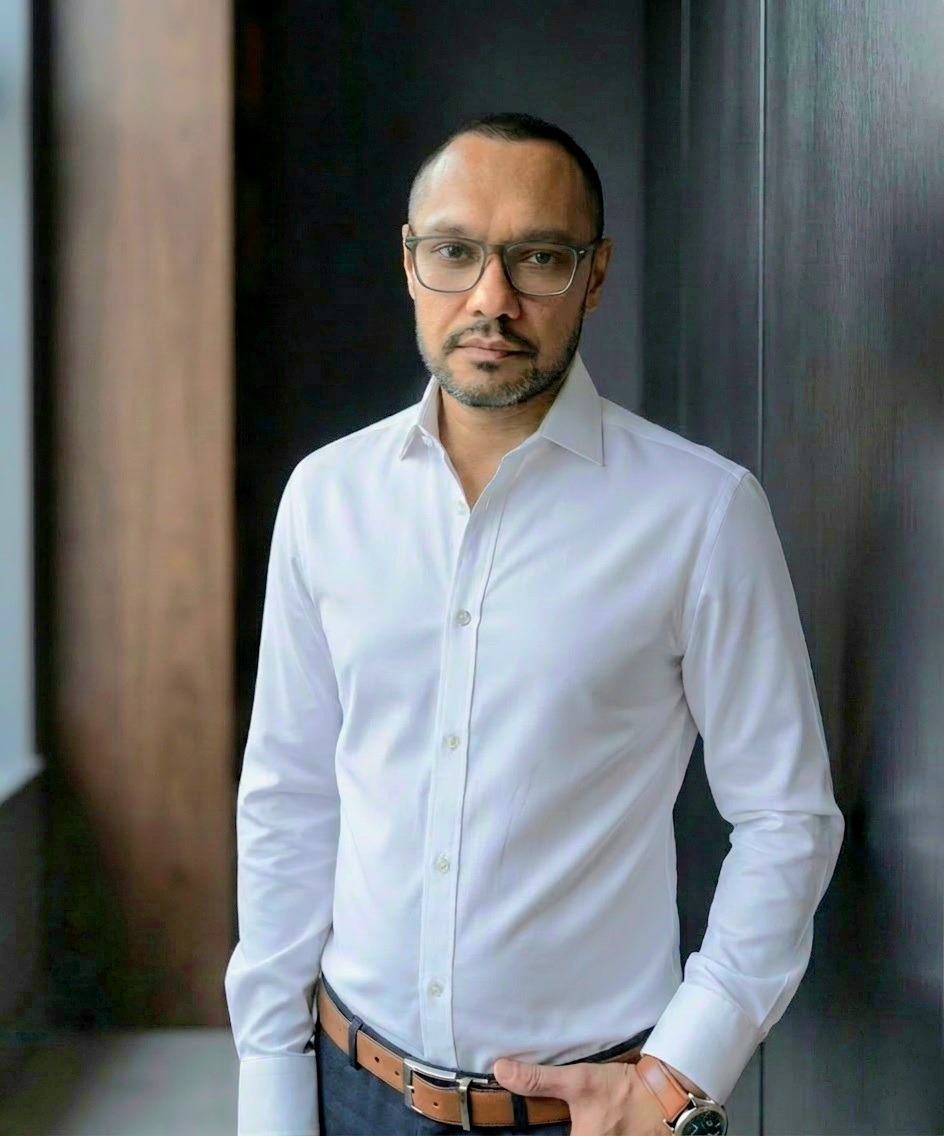
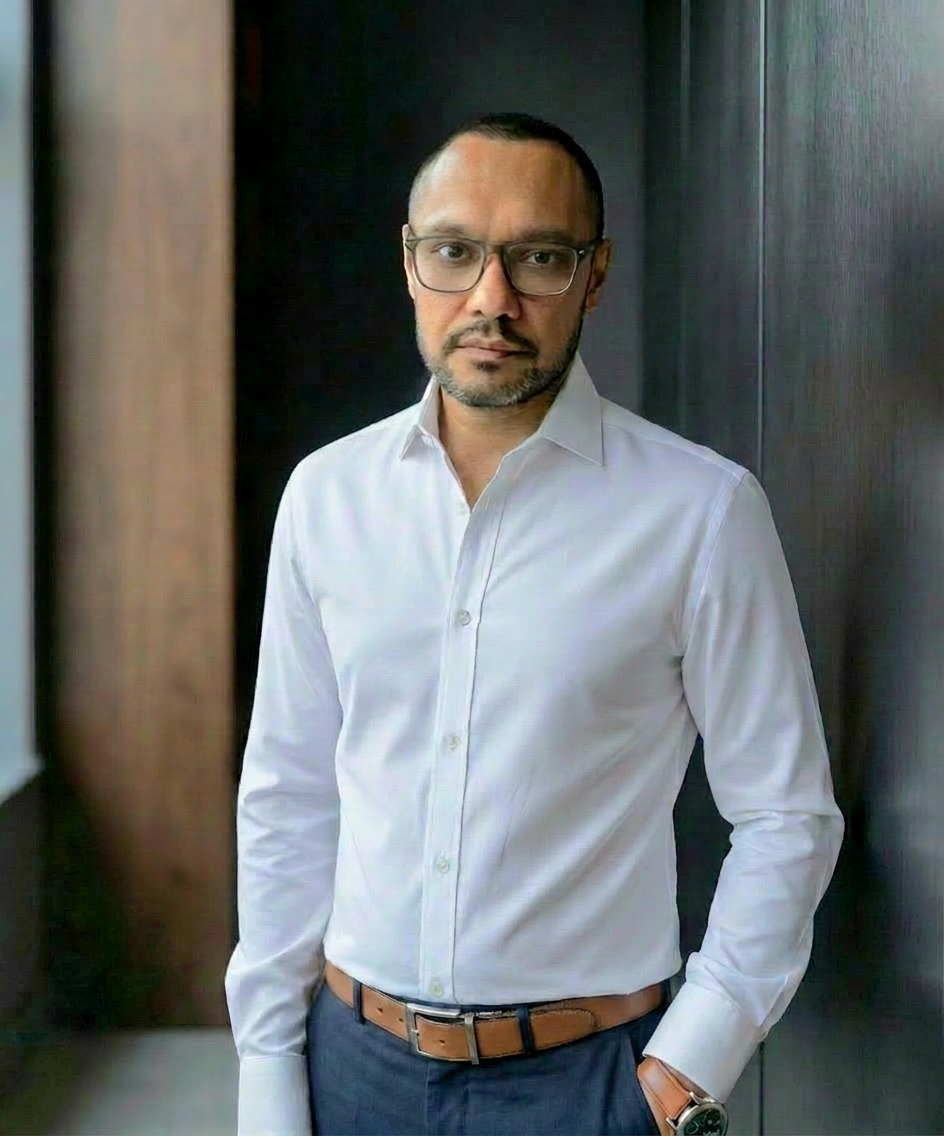
v4.5.0: portrait — FINAL PORTRAIT (clean walnut/dark-steel composition)

Changed region(s): [[0.2765, 0.8011, 0.768, 1.0], [0.4608, 0.2157, 0.4915, 0.2465]]

diff --git a/index.html b/index.html
@@ -388,7 +388,7 @@
         <div class="about-grid">
           <figure class="portrait-figure">
             <div class="portrait-artwork">
-              <img src="assets/portrait.jpg?v=4.4.0"
+              <img src="assets/portrait.jpg?v=4.5.0"
                    alt="Taran Aujla, Salesperson with HomeLife G1 Realty Inc., Brokerage. Editorial portrait."
                    width="880" height="1184"
                    loading="lazy" decoding="async" />
